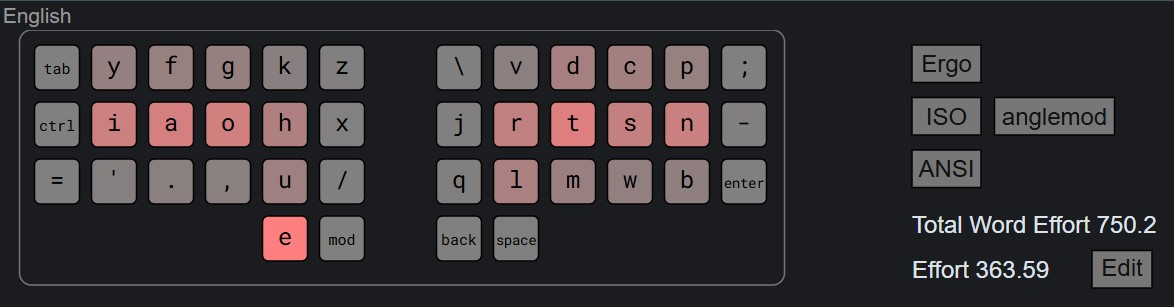
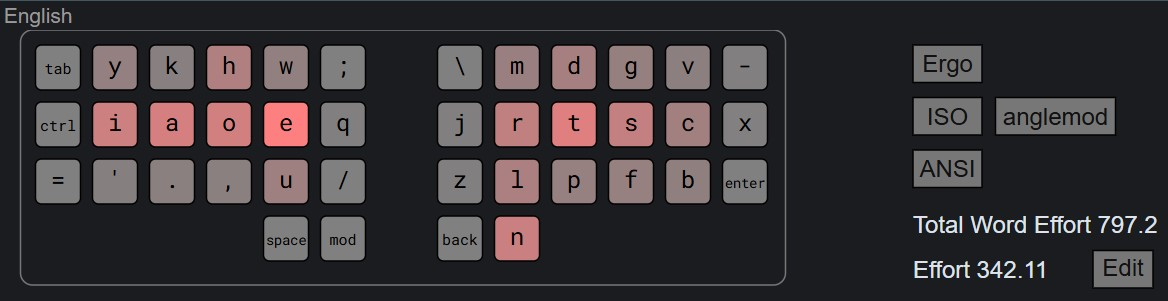
added ergonomic versions diamond\: black,pink,blue,green,violet. Updated diamond\red ergonomic version. Added new stats, heatmap and bigram frequency images

diff --git a/proof_of_concepts/diamond_backslash (original) ergonomic version/description.md b/proof_of_concepts/diamond_backslash (original) ergonomic version/description.md
@@ -4,7 +4,9 @@ This is an ergonomic version of the diamond\ mirroring keyboard layout to be use
 
 Here is a screenshot of the layout by using the analytical data from the webpage [created by cyanophage on github.](https://cyanophage.github.io/)
 
-![image of diamond\\ ergonomic version](https://raw.githubusercontent.com/r134x7/diamond_backslash/refs/heads/main/images/diamond_backslash_ergonomic_heatmap.jpg)
+![image of diamond\\ ergonomic version heatmap](https://raw.githubusercontent.com/r134x7/diamond_backslash/refs/heads/main/images/diamond_backslash_original_ergonomic_heatmap.jpg)
+
+![image of diamond\\ ergonomic version bigram frequency](https://raw.githubusercontent.com/r134x7/diamond_backslash/refs/heads/main/images/diamond_backslash_original_ergonomic_bigram_frequency.jpg)
 
 Note that you cannot remap keys on the above image, only swap them around. So the keys to pay attention to start from the column containing the 'P', 'H', 'K' keys and going all the way to the right end. The only key to pay attention to on the fourth row (bottom) is the 'E' key as that key is pressed with your left thumb.
 
@@ -15,9 +17,12 @@ Three keys that were moved around: 'E' to left thumb key, '.' to upper row left 
 
 The reason for the minimal design change for the diamond\ ergonomic version is that even though I could move a vowel to the left thumb key, the left side of the keyboard was still delicate that moving another consonant to the left side with break the chacteristics of the keyboard layout that I prefer. Hence that is why the extra key added to the left side of the keyboard was a symbol key: '-'
 
-Since HD Promethium was an ergonomic keyboard layout I mentioned in the backstory of my readme in the repository, here are two screenshots to show a comparison between HD Promethium, diamond\ and diamond\ ergonomic version:
+Since HD Promethium was an ergonomic keyboard layout I mentioned in the backstory of my readme in the repository, here are screenshots to show a comparison between HD Promethium and all of the diamond\ mirroring keyboard layout ergonomic versions:
 
 (The analytical data below came from the webpage [created by cyanophage on github.](https://cyanophage.github.io/))
 
-![image of diamond\\ ergonomic version](https://raw.githubusercontent.com/r134x7/diamond_backslash/refs/heads/main/images/keyboard_stats_4.jpg)
-![image of diamond\\ ergonomic version](https://raw.githubusercontent.com/r134x7/diamond_backslash/refs/heads/main/images/keyboard_stats_5.jpg)
+![image of diamond\\ ergonomic version part 1](https://raw.githubusercontent.com/r134x7/diamond_backslash/refs/heads/main/images/keyboard_stats_11.jpg)
+![image of diamond\\ ergonomic version part 2](https://raw.githubusercontent.com/r134x7/diamond_backslash/refs/heads/main/images/keyboard_stats_12.jpg)
+![image of diamond\\ ergonomic version part 3](https://raw.githubusercontent.com/r134x7/diamond_backslash/refs/heads/main/images/keyboard_stats_13.jpg)
+![image of diamond\\ ergonomic version part 4](https://raw.githubusercontent.com/r134x7/diamond_backslash/refs/heads/main/images/keyboard_stats_14.jpg)
+![image of diamond\\ ergonomic version part 5](https://raw.githubusercontent.com/r134x7/diamond_backslash/refs/heads/main/images/keyboard_stats_15.jpg)

diff --git a/proof_of_concepts/diamond_backslash_violet ergonomic version/description.md b/proof_of_concepts/diamond_backslash_violet ergonomic version/description.md
@@ -1,16 +1,16 @@
-# diamond\red ergonomic version
+# diamond\violet ergonomic version
 
-This is an ergonomic version of the diamond\red mirroring keyboard layout to be used with ergonomic keyboards.
+This is an ergonomic version of the diamond\violet mirroring keyboard layout to be used with ergonomic keyboards.
 
 Here is a screenshot of the layout by using the analytical data from the webpage [created by cyanophage on github.](https://cyanophage.github.io/)
 
-![image of diamond\\red ergonomic version heatmap](https://raw.githubusercontent.com/r134x7/diamond_backslash/refs/heads/main/images/diamond_backslash_red_ergonomic_heatmap.jpg)
+![image of diamond\\violet ergonomic version heatmap](https://raw.githubusercontent.com/r134x7/diamond_backslash/refs/heads/main/images/diamond_backslash_violet_ergonomic_heatmap.jpg)
 
-![image of diamond\\red ergonomic version bigram frequency](https://raw.githubusercontent.com/r134x7/diamond_backslash/refs/heads/main/images/diamond_backslash_red_ergonomic_bigram_frequency.jpg)
+![image of diamond\\violet ergonomic version bigram frequency](https://raw.githubusercontent.com/r134x7/diamond_backslash/refs/heads/main/images/diamond_backslash_violet_ergonomic_bigram_frequency.jpg)
 
 Note that you cannot remap keys on the above image, only swap them around.
 
-Just like the diamond\ ergonomic version, minimal changes are made to the diamond\red ergonomic layout to improve the performance of the layout in ergonomic keyboards.
+Just like the diamond\ ergonomic version, minimal changes are made to the diamond\violet ergonomic layout to improve the performance of the layout in ergonomic keyboards.
 
 Since HD Promethium was an ergonomic keyboard layout I mentioned in the backstory of my readme in the repository, here are screenshots to show a comparison between HD Promethium and all of the diamond\ mirroring keyboard layout ergonomic versions:
 

diff --git a/proof_of_concepts/diamond_backslash_black ergonomic version/description.md b/proof_of_concepts/diamond_backslash_black ergonomic version/description.md
@@ -1,16 +1,16 @@
-# diamond\red ergonomic version
+# diamond\black ergonomic version
 
-This is an ergonomic version of the diamond\red mirroring keyboard layout to be used with ergonomic keyboards.
+This is an ergonomic version of the diamond\black mirroring keyboard layout to be used with ergonomic keyboards.
 
 Here is a screenshot of the layout by using the analytical data from the webpage [created by cyanophage on github.](https://cyanophage.github.io/)
 
-![image of diamond\\red ergonomic version heatmap](https://raw.githubusercontent.com/r134x7/diamond_backslash/refs/heads/main/images/diamond_backslash_red_ergonomic_heatmap.jpg)
+![image of diamond\\black ergonomic version heatmap](https://raw.githubusercontent.com/r134x7/diamond_backslash/refs/heads/main/images/diamond_backslash_black_ergonomic_heatmap.jpg)
 
-![image of diamond\\red ergonomic version bigram frequency](https://raw.githubusercontent.com/r134x7/diamond_backslash/refs/heads/main/images/diamond_backslash_red_ergonomic_bigram_frequency.jpg)
+![image of diamond\\black ergonomic version bigram frequency](https://raw.githubusercontent.com/r134x7/diamond_backslash/refs/heads/main/images/diamond_backslash_black_ergonomic_bigram_frequency.jpg)
 
 Note that you cannot remap keys on the above image, only swap them around.
 
-Just like the diamond\ ergonomic version, minimal changes are made to the diamond\red ergonomic layout to improve the performance of the layout in ergonomic keyboards.
+Just like the diamond\ ergonomic version, minimal changes are made to the diamond\black ergonomic layout to improve the performance of the layout in ergonomic keyboards.
 
 Since HD Promethium was an ergonomic keyboard layout I mentioned in the backstory of my readme in the repository, here are screenshots to show a comparison between HD Promethium and all of the diamond\ mirroring keyboard layout ergonomic versions:
 

diff --git a/proof_of_concepts/diamond_backslash_green ergonomic version/description.md b/proof_of_concepts/diamond_backslash_green ergonomic version/description.md
@@ -1,16 +1,16 @@
-# diamond\red ergonomic version
+# diamond\green ergonomic version
 
-This is an ergonomic version of the diamond\red mirroring keyboard layout to be used with ergonomic keyboards.
+This is an ergonomic version of the diamond\green mirroring keyboard layout to be used with ergonomic keyboards.
 
 Here is a screenshot of the layout by using the analytical data from the webpage [created by cyanophage on github.](https://cyanophage.github.io/)
 
-![image of diamond\\red ergonomic version heatmap](https://raw.githubusercontent.com/r134x7/diamond_backslash/refs/heads/main/images/diamond_backslash_red_ergonomic_heatmap.jpg)
+![image of diamond\\green ergonomic version heatmap](https://raw.githubusercontent.com/r134x7/diamond_backslash/refs/heads/main/images/diamond_backslash_green_ergonomic_heatmap.jpg)
 
-![image of diamond\\red ergonomic version bigram frequency](https://raw.githubusercontent.com/r134x7/diamond_backslash/refs/heads/main/images/diamond_backslash_red_ergonomic_bigram_frequency.jpg)
+![image of diamond\\green ergonomic version bigram frequency](https://raw.githubusercontent.com/r134x7/diamond_backslash/refs/heads/main/images/diamond_backslash_green_ergonomic_bigram_frequency.jpg)
 
 Note that you cannot remap keys on the above image, only swap them around.
 
-Just like the diamond\ ergonomic version, minimal changes are made to the diamond\red ergonomic layout to improve the performance of the layout in ergonomic keyboards.
+Just like the diamond\ ergonomic version, minimal changes are made to the diamond\green ergonomic layout to improve the performance of the layout in ergonomic keyboards.
 
 Since HD Promethium was an ergonomic keyboard layout I mentioned in the backstory of my readme in the repository, here are screenshots to show a comparison between HD Promethium and all of the diamond\ mirroring keyboard layout ergonomic versions:
 

diff --git a/proof_of_concepts/diamond_backslash_blue ergonomic version/description.md b/proof_of_concepts/diamond_backslash_blue ergonomic version/description.md
@@ -1,16 +1,16 @@
-# diamond\red ergonomic version
+# diamond\blue ergonomic version
 
-This is an ergonomic version of the diamond\red mirroring keyboard layout to be used with ergonomic keyboards.
+This is an ergonomic version of the diamond\blue mirroring keyboard layout to be used with ergonomic keyboards.
 
 Here is a screenshot of the layout by using the analytical data from the webpage [created by cyanophage on github.](https://cyanophage.github.io/)
 
-![image of diamond\\red ergonomic version heatmap](https://raw.githubusercontent.com/r134x7/diamond_backslash/refs/heads/main/images/diamond_backslash_red_ergonomic_heatmap.jpg)
+![image of diamond\\blue ergonomic version heatmap](https://raw.githubusercontent.com/r134x7/diamond_backslash/refs/heads/main/images/diamond_backslash_blue_ergonomic_heatmap.jpg)
 
-![image of diamond\\red ergonomic version bigram frequency](https://raw.githubusercontent.com/r134x7/diamond_backslash/refs/heads/main/images/diamond_backslash_red_ergonomic_bigram_frequency.jpg)
+![image of diamond\\blue ergonomic version bigram frequency](https://raw.githubusercontent.com/r134x7/diamond_backslash/refs/heads/main/images/diamond_backslash_blue_ergonomic_bigram_frequency.jpg)
 
 Note that you cannot remap keys on the above image, only swap them around.
 
-Just like the diamond\ ergonomic version, minimal changes are made to the diamond\red ergonomic layout to improve the performance of the layout in ergonomic keyboards.
+Just like the diamond\ ergonomic version, minimal changes are made to the diamond\blue ergonomic layout to improve the performance of the layout in ergonomic keyboards.
 
 Since HD Promethium was an ergonomic keyboard layout I mentioned in the backstory of my readme in the repository, here are screenshots to show a comparison between HD Promethium and all of the diamond\ mirroring keyboard layout ergonomic versions:
 

diff --git a/proof_of_concepts/diamond_backslash_pink ergonomic version/description.md b/proof_of_concepts/diamond_backslash_pink ergonomic version/description.md
@@ -1,16 +1,16 @@
-# diamond\red ergonomic version
+# diamond\pink ergonomic version
 
-This is an ergonomic version of the diamond\red mirroring keyboard layout to be used with ergonomic keyboards.
+This is an ergonomic version of the diamond\pink mirroring keyboard layout to be used with ergonomic keyboards.
 
 Here is a screenshot of the layout by using the analytical data from the webpage [created by cyanophage on github.](https://cyanophage.github.io/)
 
-![image of diamond\\red ergonomic version heatmap](https://raw.githubusercontent.com/r134x7/diamond_backslash/refs/heads/main/images/diamond_backslash_red_ergonomic_heatmap.jpg)
+![image of diamond\\pink ergonomic version heatmap](https://raw.githubusercontent.com/r134x7/diamond_backslash/refs/heads/main/images/diamond_backslash_pink_ergonomic_heatmap.jpg)
 
-![image of diamond\\red ergonomic version bigram frequency](https://raw.githubusercontent.com/r134x7/diamond_backslash/refs/heads/main/images/diamond_backslash_red_ergonomic_bigram_frequency.jpg)
+![image of diamond\\pink ergonomic version bigram frequency](https://raw.githubusercontent.com/r134x7/diamond_backslash/refs/heads/main/images/diamond_backslash_pink_ergonomic_bigram_frequency.jpg)
 
 Note that you cannot remap keys on the above image, only swap them around.
 
-Just like the diamond\ ergonomic version, minimal changes are made to the diamond\red ergonomic layout to improve the performance of the layout in ergonomic keyboards.
+Just like the diamond\ ergonomic version, minimal changes are made to the diamond\pink ergonomic layout to improve the performance of the layout in ergonomic keyboards.
 
 Since HD Promethium was an ergonomic keyboard layout I mentioned in the backstory of my readme in the repository, here are screenshots to show a comparison between HD Promethium and all of the diamond\ mirroring keyboard layout ergonomic versions:
 

diff --git a/README.md b/README.md
@@ -4,7 +4,7 @@ diamond\ (read as diamond backslash) is a mirroring keyboard layout.
 
 Currently only works by using a kbd file with the program Kanata, the kanata.kbd file is located in the proof of concept folder. Please read the file as there are bugs listed in it.
 
-There are currently seven diamond\ mirroring keyboard layouts:
+There are currently fourteen diamond\ mirroring keyboard layouts, seven that are optimized for row-staggered keyboards and seven that are optimized for ergonomic keyboards which you can view in the proof_of_concepts folder of this repository:
 - diamond\
 - diamond\red
 - diamond\black
@@ -12,6 +12,13 @@ There are currently seven diamond\ mirroring keyboard layouts:
 - diamond\blue
 - diamond\violet
 - diamond\green
+- diamond\ (ergonomic)
+- diamond\red (ergonomic)
+- diamond\black (ergonomic)
+- diamond\pink (ergonomic)
+- diamond\blue (ergonomic)
+- diamond\violet (ergonomic)
+- diamond\green (ergonomic)
 
 The kanata.kbd file is to be used with Kanata which was created by [jtroo, link to Kanata repo here: https://github.com/jtroo/kanata](https://github.com/jtroo/kanata)
 
